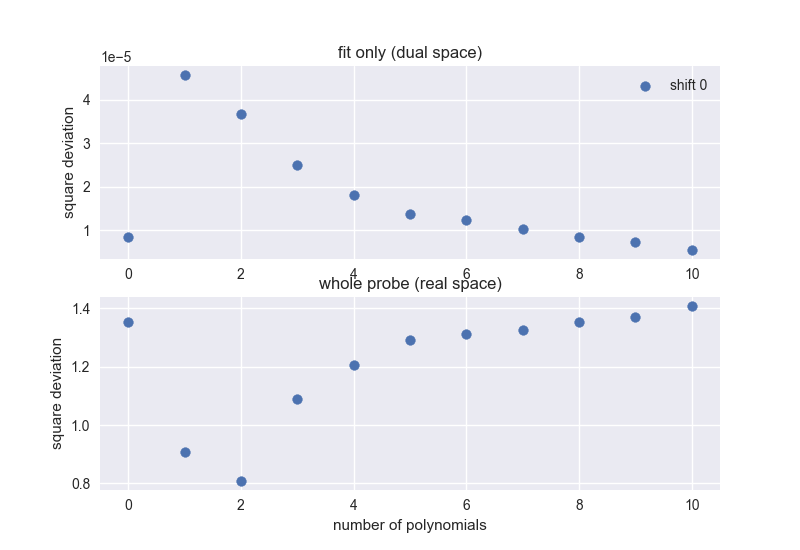
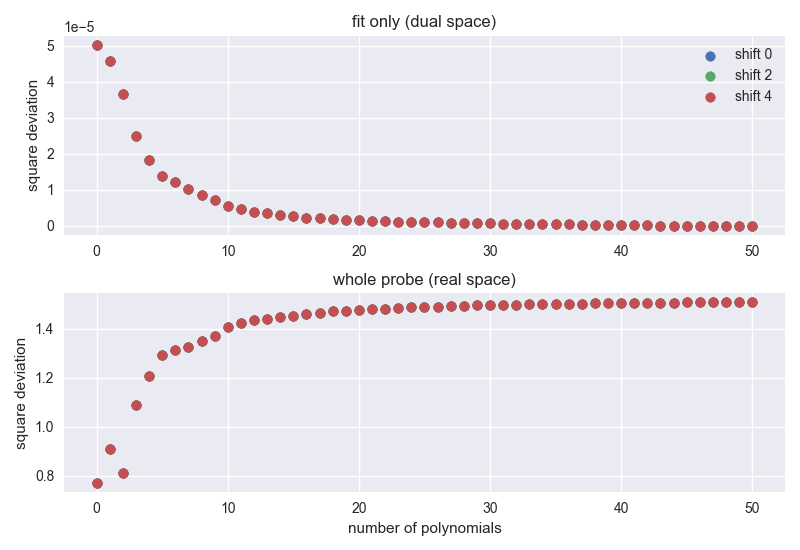
added full and crop to test_accuracy; added feature that tracks all created probe objects to allow for an analysis of the accuracy of the fit of different instances

diff --git a/probe.py b/probe.py
@@ -5,6 +5,7 @@ from zernike import CZern # 0.0.31
 #imports from other files
 import visualisation as vis
 import tests as t
+import config
 
 #callable attributes: sample (input, should be square), ift_sample (after ifft2), 
 #	ift_sample_crop (cropped to centre for fit), N (max order)
@@ -19,7 +20,8 @@ import tests as t
 #	shift/unshift (shift/unshift before expansion)
 class Probe:
 	#initialise probe object by calculating its zernike coefficients
-	def __init__(self, sample, N="default", tolerance="auto", shift=2):
+	def __init__(self, sample, N="default", tolerance="auto", shift=2,
+		statistics=True, description=""):
 		#shift sample by 2 pixels off centre
 		self.sample=sample
 		self.SHIFT=shift
@@ -63,7 +65,7 @@ class Probe:
 		#up to radial order N
 		if N=="auto":
 			N=int(self.ift_sample_crop.shape[0]//2)
-		elif N=="default" or not N:
+		elif N=="default":
 			N=8
 		self.N=N
 
@@ -100,6 +102,10 @@ class Probe:
 			probe_phase[mode]=np.angle(mode_pad)
 		self.probe=[probe_mag, probe_phase]
 
+		#add to statistics
+		if statistics:
+			t.statistics(self, description)
+
 	##### METHODS #####
 	#transform input to inverse space
 	def to_inverse(self, sample):
@@ -132,31 +138,42 @@ class Probe:
 		return pad	
 
 	#return coeffs of polynomials order N
-	def coeff_N(self, N):
+	def coeff_N(self, N, upto=True):
 		begin=int(N*(N+1)/2)
 		end=int((N+1)*(N+2)/2)
-		return self.coeffs[begin:end]
+		coeffs=np.zeros(len(self.coeffs), dtype="complex")
+		if upto:
+			coeffs[:end]=self.coeffs[:end]
+		else:
+			coeffs[begin:end]=self.coeffs[begin:end]
+		return coeffs
 
 	#returns zernike polynomial n,m in shape of sample_crop
 	#if only n is provided, total coefficient number is assumed
 	# n>=0, 0<=m<=n
+	#alternatively a list of coeffs can be provided
 	def zernike(self,n,m=None):
-		#make sure valid n and m are provided		
-		if m is None:
-			#if only n is provided
-			idx=int(n)
+		#if list is provided
+		if isinstance(n, list) or isinstance(n, np.ndarray):
+				coeffs=n
+				
+		#else make sure valid n and m are provided
 		else:
-			if n>self.N:
-				n=self.N
-				print(f"n can't be larger than N, setting n={self.N}")
-			if m>n:
-				m=n
-				print(f"m can't be larger than n, setting m={n}")
-			idx=int(n*(n+1)/2)+m
+			if m is None:
+				#if only n is provided
+				idx=int(n)
+			else:
+				if n>self.N:
+					n=self.N
+					print(f"n can't be larger than N, setting n={self.N}")
+				if m>n:
+					m=n
+					print(f"m can't be larger than n, setting m={n}")
+				idx=int(n*(n+1)/2)+m
 			
-		#create coeff array with the corresponding coeff from fit
-		coeffs=np.zeros(len(self.coeffs),dtype="complex")
-		coeffs[idx]=self.coeffs[idx]
+			#create coeff array with the corresponding coeff from fit
+			coeffs=np.zeros(len(self.coeffs),dtype="complex")
+			coeffs[idx]=self.coeffs[idx]
 
 		#make polynomial matrix
 		poly=self.cart.eval_grid(coeffs, matrix=True)
@@ -183,5 +200,10 @@ if __name__=="__main__":
 
 	#test accuracy for different numbers of polynomials
 	# and different shift
-	t.test_fit(probe_complex,10, shiftrange=0,save=True)#slow
+	#t.test_fit(probe_complex,50,save=True)#slow
 	#t.plot_shifts(probe_complex,save=True)
+
+	#test statistics feature for different shifts
+	#for i in range(3):		
+	#	probe=Probe(probe_complex, shift=i, description=f"s={i}")
+	#vis.plot_stats()

diff --git a/tests.py b/tests.py
@@ -6,8 +6,10 @@ import pandas as pd # 1.3.1
 
 #imoprt from main
 from probe import Probe
+import config
 
 #plot accuracy of fit for different orders and shifts
+#slow for high end, shiftrange
 def test_fit(sample,end,tolerance="auto",shiftrange=4,shiftstep=2,save=False):
 	deviations_crop={}
 	deviations_full={}
@@ -33,7 +35,6 @@ def test_fit(sample,end,tolerance="auto",shiftrange=4,shiftstep=2,save=False):
 
 			#collect square difference and coefficients
 			sdiff_crop.append(np.sum(square_difference))
-			print(i, np.sum(square_difference))
 		
 		#collect square dev for shift	
 		deviations_crop[str(shift)]=sdiff_crop
@@ -50,10 +51,11 @@ def test_fit(sample,end,tolerance="auto",shiftrange=4,shiftstep=2,save=False):
 		ax1.set_ylabel("square deviation")
 
 		ax2.set_title("whole probe (real space)")
-		ax2.set_xlabel("number of polynomials")		
+		ax2.set_xlabel("order of polynomials")		
 		ax2.set_ylabel("square deviation")
-		#ax.set_yscale("log")
+		
 		ax1.legend()
+		fig.tight_layout()
 		if save:
 			plt.savefig("test_accuracy.png")			
 		else:
@@ -75,3 +77,20 @@ def plot_shifts(sample,shiftrange=6,shiftstep=2,save=False):
 	else:
 		plt.show()
 	plt.close()
+
+#collect statistics while running
+#creates global variable probe_statistics
+def statistics(probe_obj, description):
+	#create dictionary with square deviation of probe obj
+	#for each order of polynomial and meta data
+	stats={"N":probe_obj.N,"shift":probe_obj.SHIFT,
+		"size":probe_obj.ift_sample_crop.shape[0], "description":description}
+	for order in range(probe_obj.N+1):
+		coeffs=probe_obj.coeff_N(order)
+		#calculate square diff in each order (crop only)
+		square_difference=probe_obj.zernike(coeffs)-probe_obj.ift_sample_crop
+		square_difference=np.absolute(square_difference)**2
+		square_difference=np.nan_to_num(square_difference, nan=0)
+		stats[order]=np.sum(square_difference)
+	#add to global variable statistics
+	config.statistics=config.statistics.append(stats, ignore_index=True)

diff --git a/visualisation.py b/visualisation.py
@@ -3,6 +3,9 @@ import numpy as np # 1.21.1
 import seaborn as sns # 41.4.0
 import matplotlib.pyplot as plt # 3.4.2
 from matplotlib import cm # 3.4.2
+import pandas as pd
+
+import config
 
 #plot sample_crop vs fit
 def plot_crop(probe, save=False):
@@ -123,4 +126,18 @@ def visual_coeff(probe, save=False):
 			plt.savefig(f"coefficients_shift_{probe.SHIFT}.png")
 		else:
 			plt.show()
+	plt.close()
+
+#plot accuracy of fits for each different setting (description)
+def plot_stats():
+	stats=config.statistics
+	idx=["N","description","shift","size"]
+	vals=stats.drop(idx,axis=1).columns
+	stats=stats.melt(id_vars=idx, value_vars=vals)
+	#normalise square deviation by window size for comparability
+	stats["value"]=stats["value"]/stats["size"]**2
+	stats=stats.rename(columns={"variable":"order","value":"square deviation"})
+	
+	sns.catplot(data=stats, x="order", y="square deviation", hue="description", kind="swarm")
+	plt.savefig("stats.png")
 	plt.close()

diff --git a/config.py b/config.py
@@ -1,0 +1,3 @@
+import pandas as pd
+#shared global variables
+statistics=pd.DataFrame()
